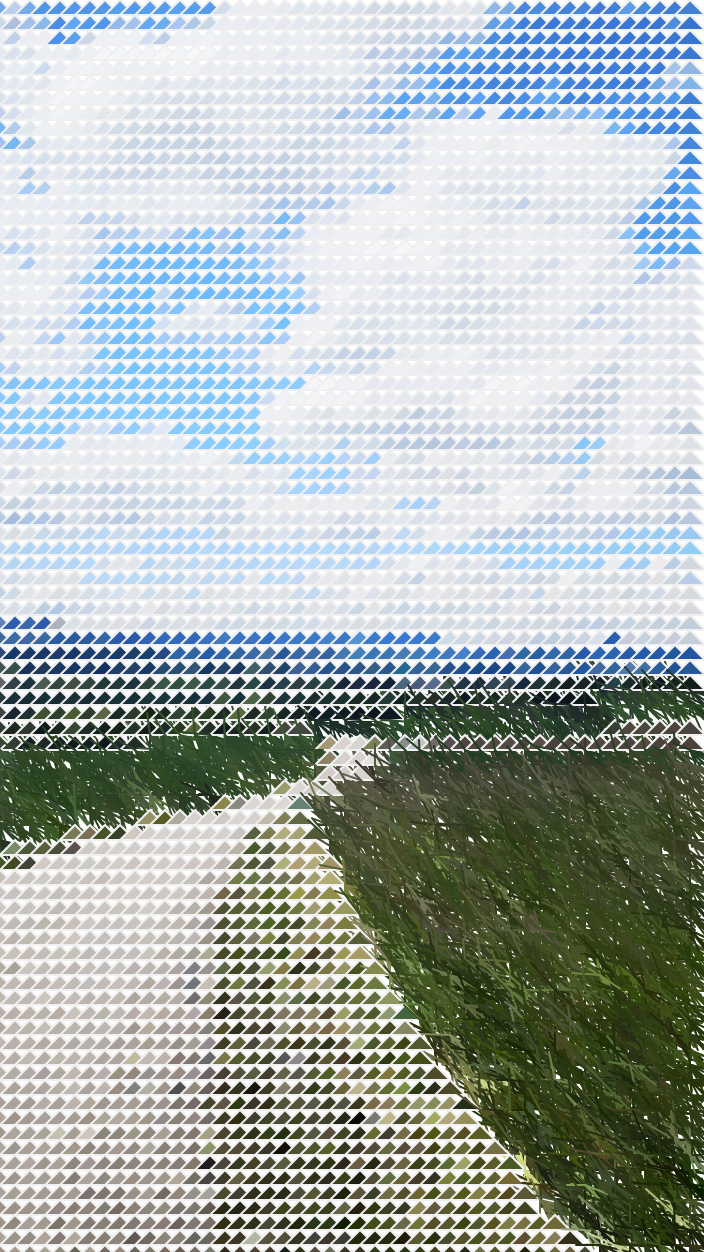
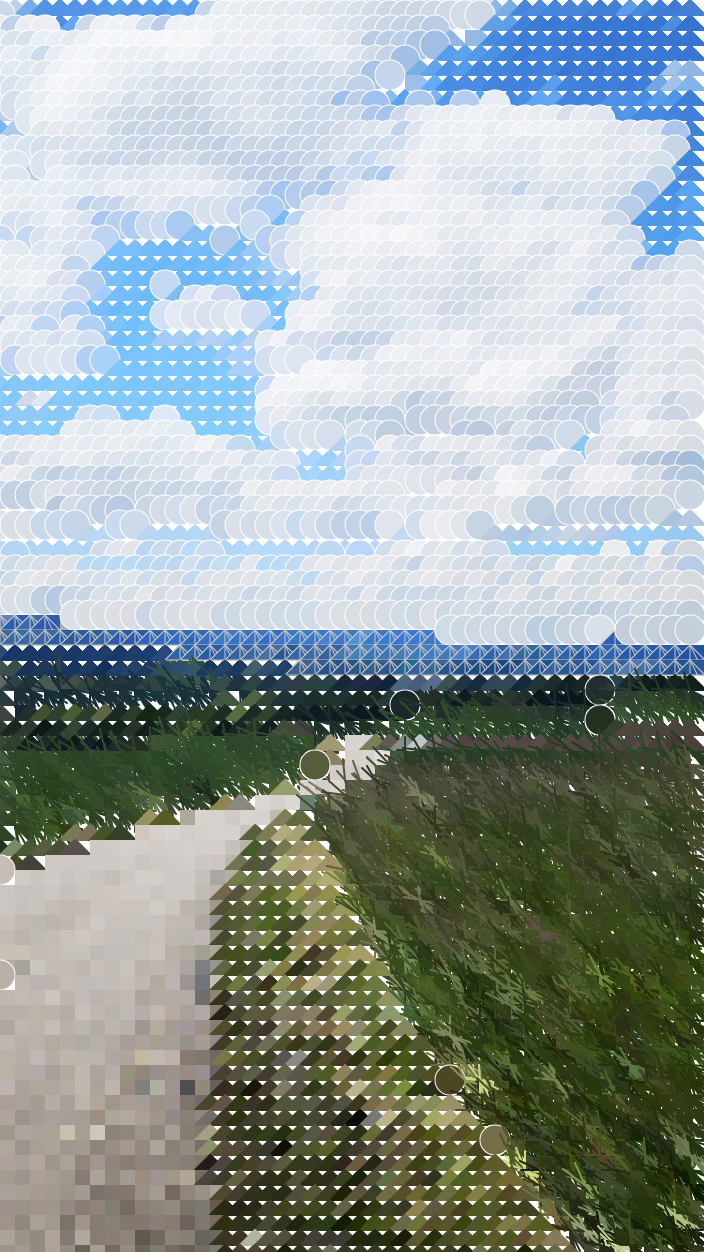
new pictures

diff --git a/sketch.js b/sketch.js
@@ -64,7 +64,7 @@ function draw () {
         fill(pixl)
         rect(x,y,chunkWidth,chunkHeight);
       } 
-      else if (mask[0]>151 && mask[0]<201) {
+      else if (mask[0]>199 && mask[0]<201) {
         stroke(255);
         strokeWeight(1);
         ellipse(x,y,30,30);
@@ -86,23 +86,6 @@ function draw () {
       }
     }
   }
-  //RANDOMCODEFORBURGENLAND
-  // for(let i=0;i<2000;i++) {
-  //   let x = floor(random(sourceImg.width));
-  //   let y = floor(random(sourceImg.height));
-  //   let pix = sourceImg.get(x, y);
-  //   let mask = maskImg.get(x, y);
-  //   let pointSize = 20;
-  //   let halfSize = 50;
-  //   fill(pix);
-  //   if(mask[0] > 128) {
-  //     noStroke();
-  //     rect(x,y,20,20);
-  //   } else {
-  //     noStroke();
-  //     ellipse(x, y, pointSize, pointSize);
-  //   }
-  // }
   renderCounter = renderCounter + 1;
   if(renderCounter > 10) {
     console.log("Done!")
